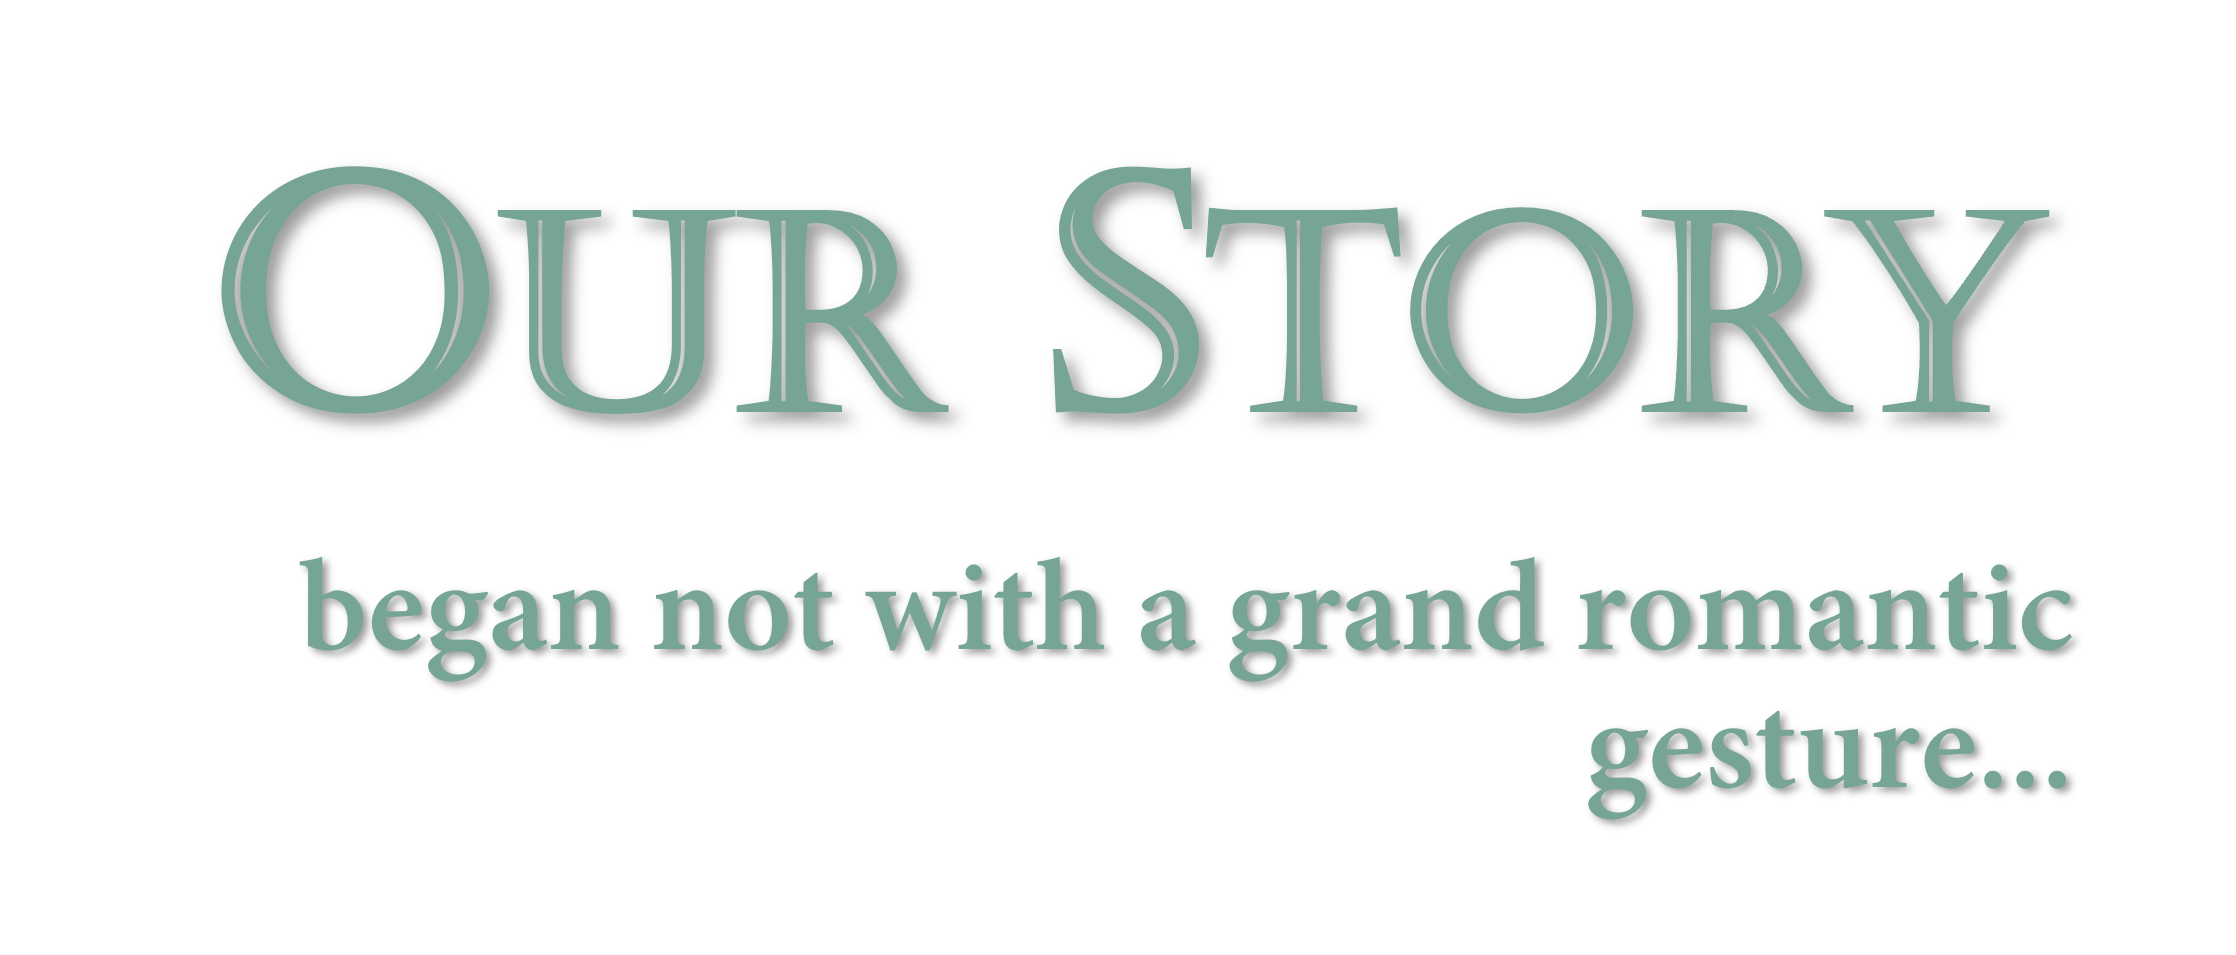
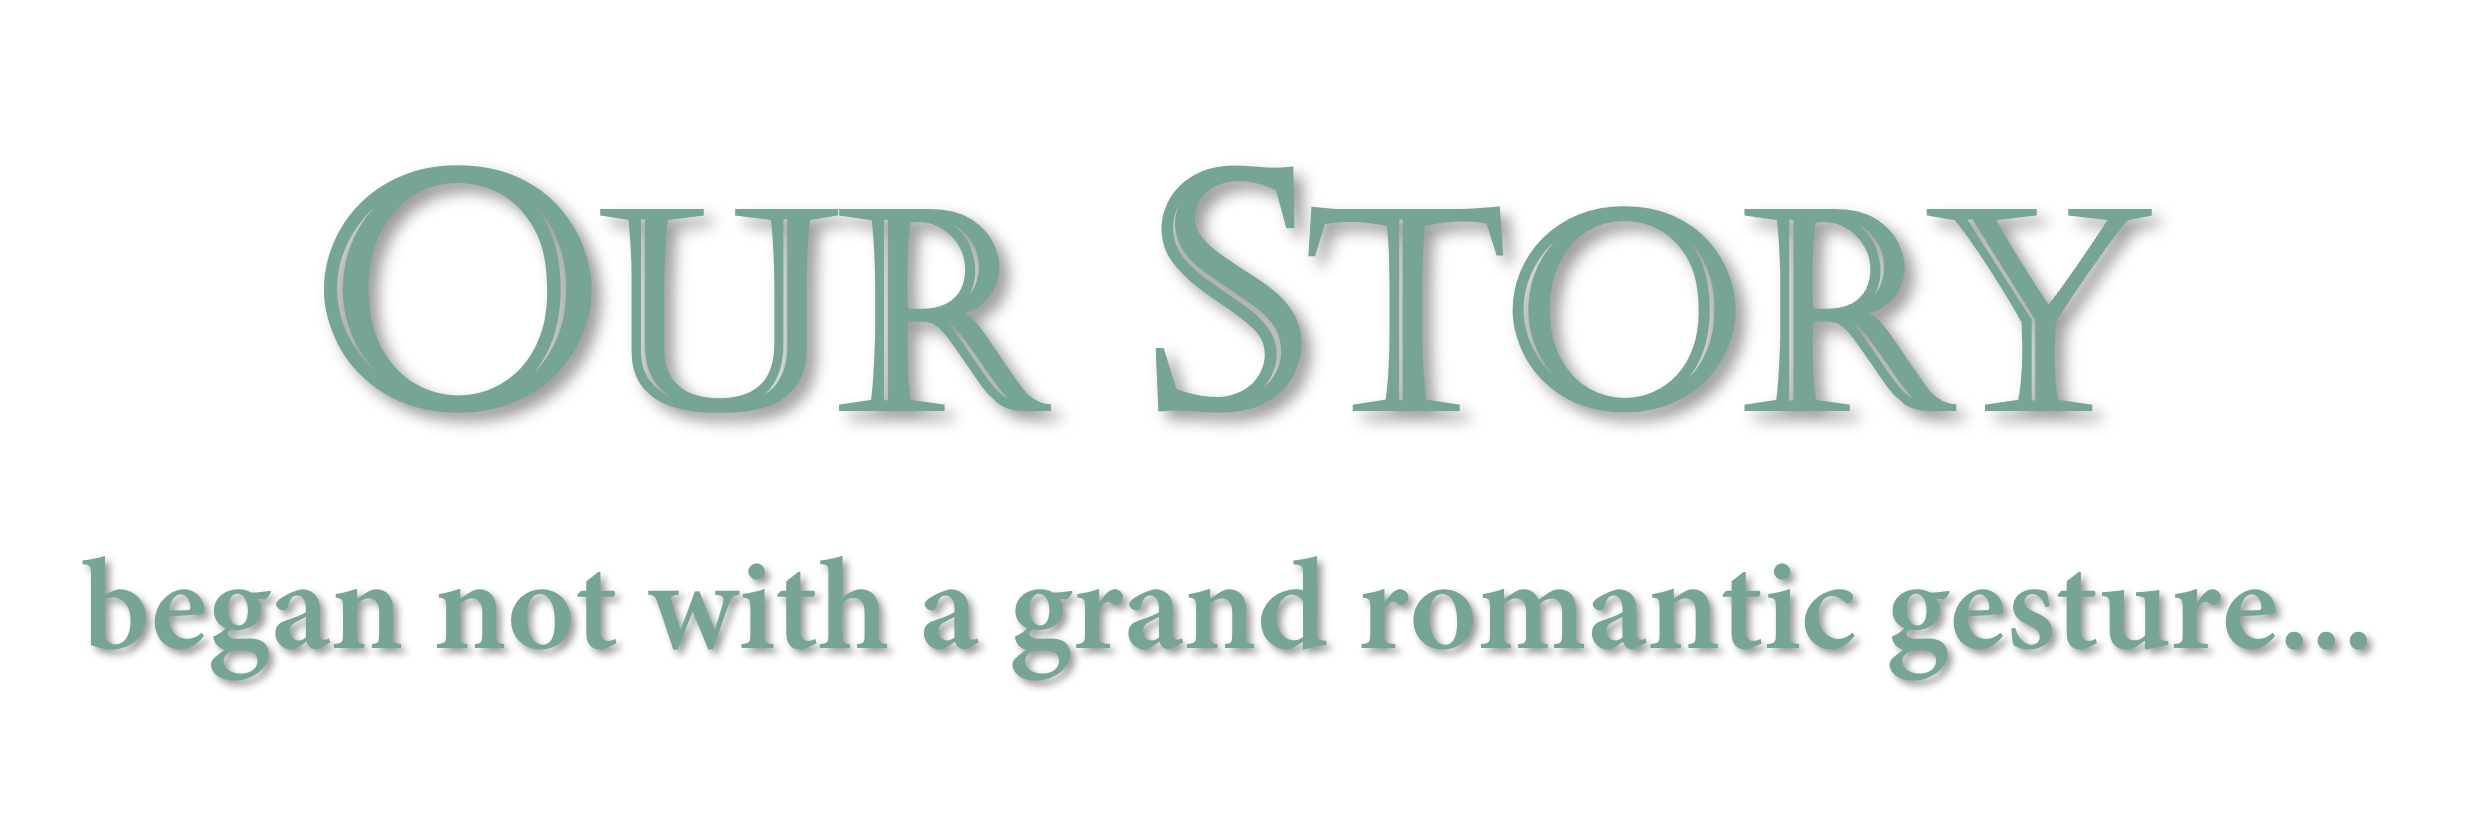
minor changes and rewrote the ATV page

Changed region(s): [[0.0309, 0.5835, 0.9875, 0.86], [0.4629, 0.1536, 0.9258, 0.5221], [0.0926, 0.1536, 0.432, 0.5221]]

diff --git a/about_the_venue.html b/about_the_venue.html
@@ -52,7 +52,8 @@
             </nav>
         </header>
         
-        <div style="background-image: linear-gradient(rgba(0,0,0,0.4), rgba(0,0,0,0.4)), url(images/bkg/rings.png); background-size:cover; background-position:center; background-attachment:fixed;">
+        <div style="background-image: linear-gradient(rgba(0,0,0,0.4), rgba(0,0,0,0.4)), url(images/bkg/rings.png); 
+            background-size:cover; background-position:center; background-attachment:fixed;">
             <br><br>
             <div class="d-flex p-5" style="flex-direction: column;">
                 <img src="images/titles/about_the_venue.png" style="width: 50%; align-self: center" id="about_the_venue">
@@ -60,18 +61,22 @@
                     <h1 class="display-6" style="text-align: center; color: white;"></h1> 
                     <div style=" z-index: 1;">
                         <h1 class="display-6" style="text-align: center; color: white;"></h1> 
-                         <p class="lead" style="text-align: center; color:white">Experience the grandeur of a Jeffersonian manor located 
-                            in a picturesque setting near Washington, DC.  Impressive Jeffersonian architecture, elegantly appointed 
-                            ballrooms, and crystal chandeliers offer the ideal atmosphere for weddings, upscale meetings, and special 
-                            events.<br>~<br>The light-filled ballrooms, stately French doors, and distinguished carved fireplaces make this 
-                            romantic estate the perfect setting for your special day.  We offer facilities for ceremonies indoors and 
-                            outdoors.<br>~<br>The private 22-acre estate features scenic views, spacious ballrooms, convenient on-site 
-                            parking, and a distinct facade that will add a classic sense of scale and power to your event.<br>~<br>Rose Hill 
-                            Manor is located in the rolling hills of Northern Virginia's wine country, and over the years has hosted weddings, 
-                            parties, corporations, fundraisers, and more.<br><br><br>Further details can be found on <a class="link-light text-decoration-none" href="https://www.rosehillmanor.com/"style="color: rgb(119, 165, 148);">Rose Hill Manor's website</a></p>
-                             <br><br>
+                         <p class="lead" style="text-align: center; color:white">Step into the timeless elegance of a 
+                            Jeffersonian-inspired manor set against a stunning backdrop just outside Washington, DC. With 
+                            its stately architecture, sparkling crystal chandeliers, and beautifully designed ballrooms, 
+                            the estate creates an unforgettable setting for weddings, refined gatherings, and special 
+                            occasions.<br>~<br>Sunlit interiors, grand French doors, and intricately carved fireplaces 
+                            lend a romantic charm to every celebration, while both indoor and outdoor ceremony spaces offer 
+                            flexibility for your perfect day. Spanning 22 private acres, the estate features sweeping views, 
+                            spacious event areas, ample on-site parking, and a distinguished façade that brings a sense of 
+                            classic grandeur to any event.<br>~<br>Nestled in the scenic hills of Northern Virginia’s wine 
+                            country, Rose Hill Manor has long been a cherished destination for weddings, social events, 
+                            corporate functions, and fundraisers alike.
+                            <br><br>
+                            Visit <a class="link-light text-decoration-none" href="https://www.rosehillmanor.com/"style="color: rgb(119, 165, 148);">
+                            Rose Hill Manor's Website</a> for more details about the venue.
                     </div>
-            </div>
+        </div>
     </body>
     <script src="countdown.js"></script>
 

diff --git a/dress_code.html b/dress_code.html
@@ -62,11 +62,11 @@
                         <h1 class="display-6" style="text-align: center; color: white;"></h1> 
                          <p class="lead" style="text-align: center; color:white">We kindly invite our guests to join us in formal attire 
                             as we celebrate in the Virginia countryside this fall. Think elegant and elevated - floor length gowns or 
-                            sophisticated cocktail dresses for women, and suits or tuxedos for men.<br><br>~<br><br>With the crisp autumn air and 
-                             setting in mind, rich seasonal colors, textured fabrics, and layered pieces are warmly encouraged.<br><br>~<br><br>Please 
+                            sophisticated cocktail dresses for women, and suits or tuxedos for men.<br>~<br>With the crisp autumn air and 
+                             setting in mind, rich seasonal colors, textured fabrics, and layered pieces are warmly encouraged.<br>~<br>Please 
                              also consider appropriate footwear for grass and outdoor pathways to stay comfortable while enjoying the beautiful 
                              countryside surroundings.</p>
-                             
+                             <br><br><br><br>
                     </div>
             </div>
     </body>

diff --git a/our_story_photos.html b/our_story_photos.html
@@ -55,8 +55,8 @@
         <div style="background-image: linear-gradient(rgba(0,0,0,0.4), rgba(0,0,0,0.4)), url(images/bkg/rings.png); background-size:cover; background-position:center; background-attachment:fixed;">
             <br>
             <div class="d-flex p-5" style="flex-direction: column;">
+            <img src="images/titles/our_story.png" style="width:45%; align-self: center" id="our_story">
                 <div class="d-flex hid card2 align-items-left" id="sec1">
-                    <div><img src="images/titles/our_story.png" style="width:85%; float: left" id="sec1pic"></div>
                     <br>
                     <div style=" z-index: 1;">
                         <br>
@@ -85,7 +85,7 @@
             <footer class="container py-3">
                 <div class="row">
                     <div class="col-6 col-md">
-                        <img src="images/titles/photo_gallery.png" width="45%; float: right">
+                        <img src="images/titles/photo_gallery.png" width="50%; float: right">
                     </div>       
              
                 

diff --git a/countdown.js b/countdown.js
@@ -1,17 +1,13 @@
 var countDownDate = new Date("Oct 17, 2026 01:00:00").getTime();
 
-var x = setInterval(function() //updates every 1s
-{
+var x = setInterval(function() {//updates every 1s
   var now = new Date().getTime();//retrieve dates/time
   var distance = countDownDate - now; //distance between now and the count down date
 
   var days = Math.floor(distance / (1000 * 60 * 60 * 24));
-  var hours = Math.floor((distance % (1000 * 60 * 60 * 24)) / (1000 * 60 * 60));
-
   document.getElementById("demo").innerHTML = days + " Days ";
 
-  if (distance < 0) 
-  {
+  if (distance < 0) {
     clearInterval(x);
     document.getElementById("demo").innerHTML = "EXPIRED";
   }

diff --git a/text_animation.css b/text_animation.css
@@ -1,9 +1,5 @@
 @media screen and (max-width: 768px) 
 {
-  #ted_logo_margin {
-    width: 100% !important
-  }
-
   #car_resize {
     width: 100% !important
   }
